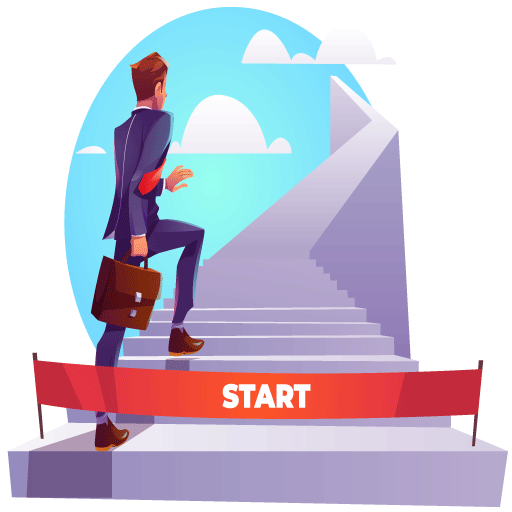
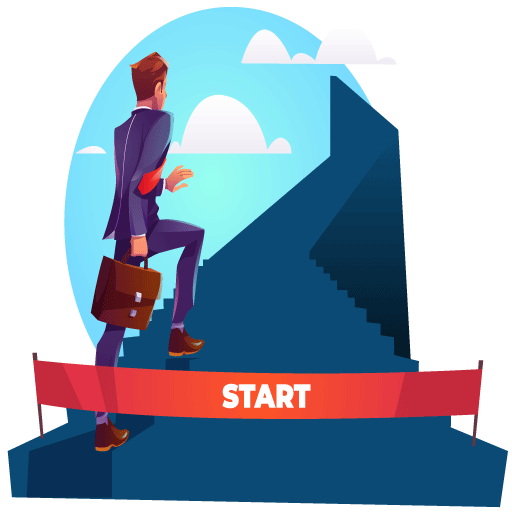
Add Image in Tentang Kami

diff --git a/contact-us.html b/contact-us.html
@@ -80,22 +80,26 @@
   </div>
   <div class="contact-banner-container">
     <div class="ckb-container text-container">
-      <div class="subtitle-text">Connecting...... Connected!</div>
+      <div class="subtitle-text">Kontak kami!</div>
     </div>
   </div>
   <div class="contact-us-container target-scroll">
     <div class="ckb-container">
-      <div class="title">CKB is at your service</div>
-      <div class="subtitle">Please fill the form below and expect response within 48 hours</div>
+      <div class="title">CKB siap melayani anda</div>
+      <div class="subtitle">Silakan isi formulir di bawah ini dan tunggu tanggapan dalam waktu 48 jam</div>
+      <!-- Please fill the form below and expect response within 48 hours -->
       <div class="form-container">
         <div class="form-row">
-          <div>What's your name ?</div>
-          <input type="text" placeholder="Enter Your Name...">
+          <div>Nama anda?</div>
+          <input type="text" placeholder="Masukkan Nama Anda...">
+          <!-- Enter Your Name... -->
         </div>
         <div class="form-row">
-          <div>How can we contact you ?</div>
-          <input type="text" placeholder="Enter Your Email...">
-          <input type="number" placeholder="Enter Your Mobile Phone Number">
+          <div>Bagaimana kami dapat menghubungi anda?</div>
+          <input type="text" placeholder="Masukkan email anda...">
+          <!-- Enter Your Email... -->
+          <input type="number" placeholder="Masukkan Nomor Ponsel Anda...">
+          <!-- Enter Your Mobile Phone Number -->
         </div>
         <div class="form-row text-right">
           <a href="#" class="button-ckb-1">Submit</a>
@@ -105,20 +109,20 @@
   </div>
   <div class="visit-us-container">
     <div class="ckb-container">
-      <div class="title">Visit Us</div>
+      <div class="title">Kunjungi kami</div>
       <div class="visit-inner">
         <iframe frameborder="0" marginheight="0" marginwidth="0" src="https://www.google.com/maps/embed?pb=!1m18!1m12!1m3!1d991.3248964653775!2d106.74134882921346!3d-6.355251666849216!2m3!1f0!2f0!3f0!3m2!1i1024!2i768!4f13.1!3m3!1m2!1s0x0%3A0xa83ae69e7845ff40!2zNsKwMjEnMTguOSJTIDEwNsKwNDQnMzAuOCJF!5e0!3m2!1sid!2sid!4v1641740161448!5m2!1sid!2sid"></iframe>
         <div class="right-visit">
           <div class="location">
-            <div class="title">Our Location</div>
+            <div class="title">Lokasi kami</div>
             <div class="subtitle">Jl. Jeruk Raya Blok H/1 No:11 Pamulang Estate, Tangerang Selatan, Banten</div>
           </div>
           <div class="number">
-            <div class="title">Our Number</div>
-            <div class="subtitle">085 947 566 558</div>
+            <div class="title">Nomor kami</div>
+            <div class="subtitle">+62 859 4756 6558</div>
           </div>
           <div class="email">
-            <div class="title">Our Email</div>
+            <div class="title">Email</div>
             <div class="subtitle">scooptechcorp@gmail.com</div>
           </div>
         </div>

diff --git a/tentang-kami.html b/tentang-kami.html
@@ -122,7 +122,7 @@
   <!-- Section 4 -->
   <div class="visimisi-container">
     <div class="ckb-container visimisi-inner">
-      <div class="left-visimisi"><img src="assets/image/cross-sign.png"></div>
+      <div class="left-visimisi"><img src="assets/image/visidanmisi.png"></div>
       <div class="right-visimisi">
         <div class="strip-ckb"></div>
         <div class="title-visi">Visi Perusahaan</div>
@@ -160,7 +160,7 @@
         </div>
         <div class="right-perjalanan-body">
           <div class="right-perjalanan-body-inner">
-            <img src="assets/image/perjalanan-img-example.jpg" alt="" srcset="">
+            <img src="assets/image/cross-sign.png" alt="" srcset="">
             Obsesi pada pelanggan adalah nilai utama yang dijunjung tinggi oleh Niagahoster. Tim kami senantiasa melakukan pendalaman dan penelusuran akan kebutuhan pelanggan. Setiap ide yang tercipta, setiap produk yang dibuat, setiap layanan yang dihadirkan adalah buah pembelajaran kami terhadap kebutuhan pelanggan.
             <p>"Kemajuan dunia internet dan digital menjadi fenomena yang sulit dihindari. Niagahoster hadir dengan solusi yang tepat untuk memastikan banyak orang saling terhubung dan sukses secara online dengan memiliki website"</p>
           </div>
@@ -239,7 +239,7 @@
         </div>
         <div class="section8-item">
           <div class="section8-head">
-            <img src="assets/image/cross-sign.png">
+            <img src="assets/image/berani.png">
             <div class="title-text">Berani bergerak, berani berhasil</div>
           </div>
           <div class="section8-body">Lorem Ipsum is simply dummy text of the printing and typesetting industry. 

diff --git a/assets/css/tentang-kami-page.css b/assets/css/tentang-kami-page.css
@@ -91,7 +91,7 @@
 }
 
 .right-perjalanan-body {
-  background-color: darkcyan;
+  background-color: #0B4B75;
   color: #ffffff;
   letter-spacing: .02em;
   line-height: 2rem;
@@ -171,7 +171,7 @@
   width: 40px;
   height: 40px;
   border-radius: 50%;
-  background-color: darkcyan;
+  background-color: #0B4B75;
   color: #ffffff;
   display: flex;
   align-items: center;

diff --git a/assets/css/style.css b/assets/css/style.css
@@ -28,7 +28,7 @@
 .strip-ckb {
   width: 48px;
   height: 2px;
-  background-color: darkcyan;
+  background-color: #0B4B75;
   margin-bottom: 15px;
 }
 
